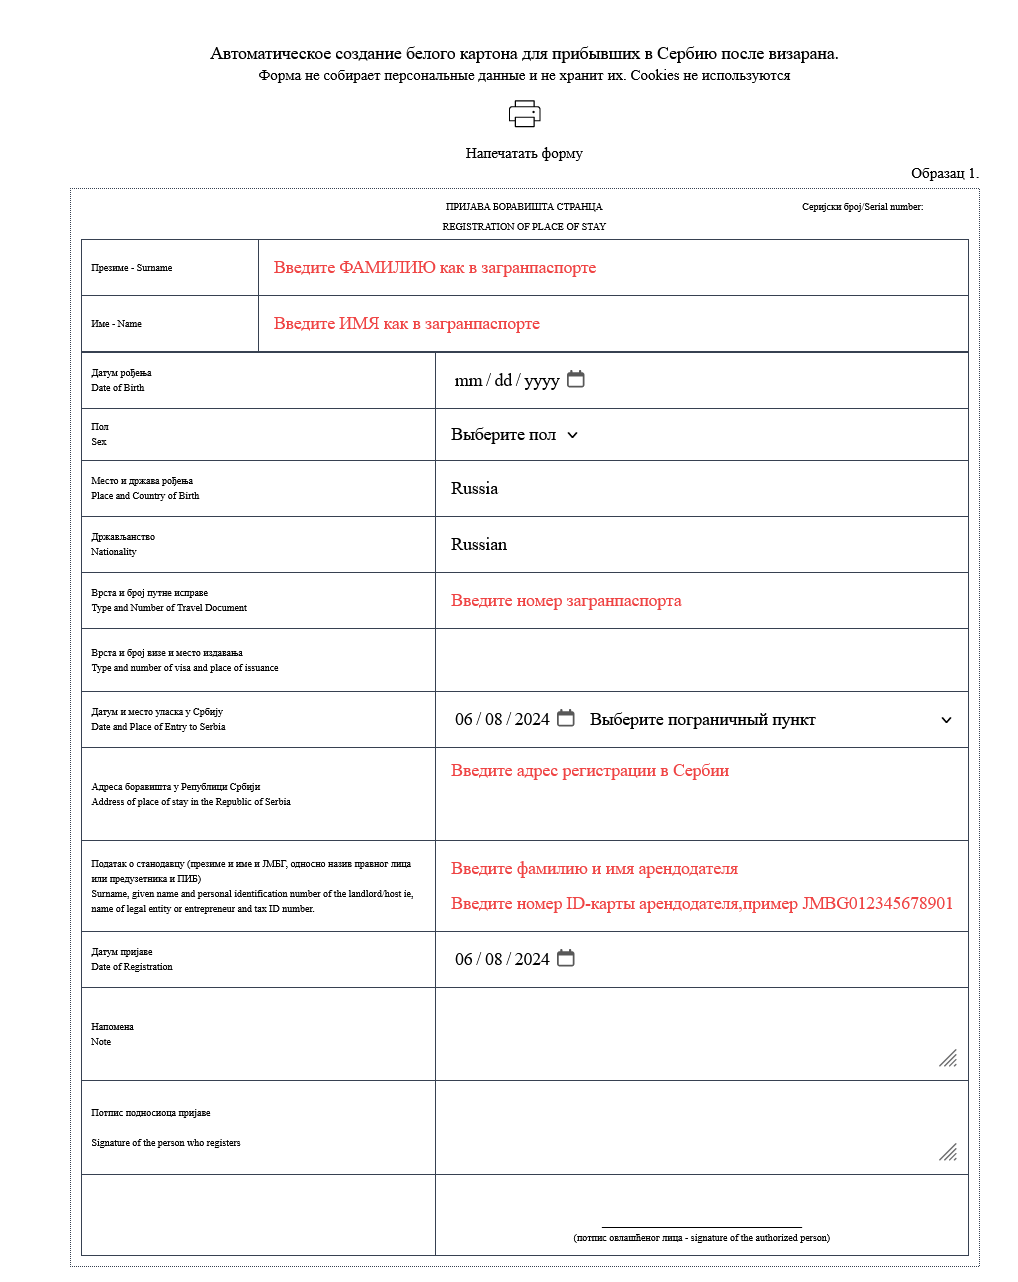
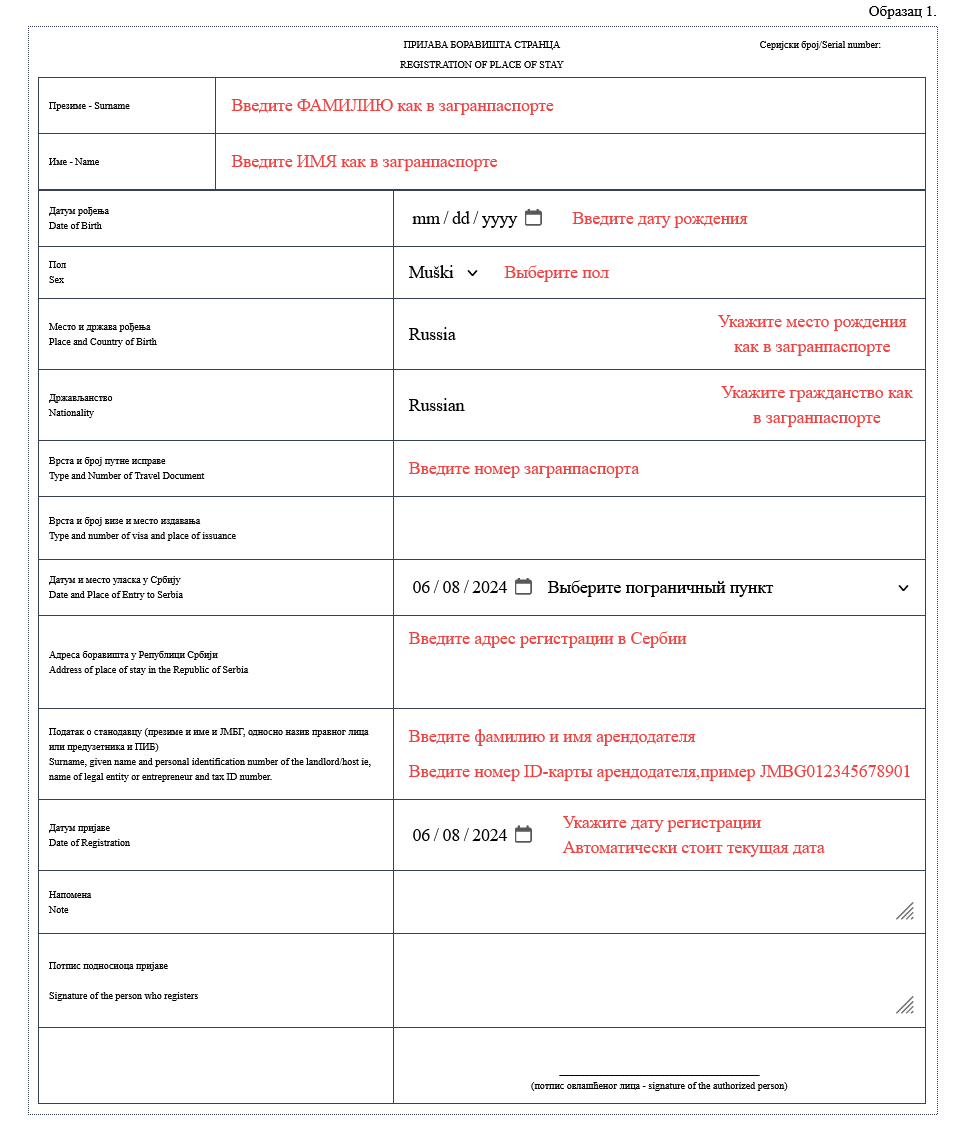
Edit Readme file, add screenshots

diff --git a/README.md b/README.md
@@ -2,18 +2,24 @@
 
 ## Overview
 
-This is a simple web application designed to simplify the process of filling out the "Foreign Citizen Residence Registration" form in Serbia, commonly known as "Beli Karton". Users can fill in the necessary details online, print the form, or save it to send for printing. The application does not collect or store any personal information, ensuring user privacy.
+This is a simple web application designed to simplify the process of filling out the "Foreign Citizen Residence Registration" form in Serbia, commonly known as "Beli Karton," for Russian-speaking people. The language of the app is Russian. Users can fill in the necessary details online, print the form, or save it to send for printing. The application does not collect or store any personal information, ensuring user privacy.
 
 ## Table of Contents
+- [Links](#links)
 - [Features](#features)
 - [Technologies](#technologies)
 - [Screenshots](#screenshots)
 - [Installation](#installation)
+- [Contributing](#contributing)
 
+## Links
+
+Deploy: [https://beli-karton.vercel.app/](https://beli-karton.vercel.app/)
 
 ## Features
 
 - Fill out the registration form online.
+- Include specific letters of the Serbian latin alphabet for easy input. Users can click on a character to automatically copy it to the clipboard.
 - Automatically set today's date for relevant form fields.
 - Provide a list of places of entry in Serbia for easy selection.
 - Print the completed form directly from the application.
@@ -24,12 +30,17 @@ This is a simple web application designed to simplify the process of filling out
 ## Technologies
 
 - React
+- Typescript
 - Tailwind CSS
 
 ## Screenshots
 
-<b>Home Page</b>
+<b>Header</b>
+<img src="./src/assets/images/header.png">
+<details><summary><b>Show all</b></summary>
+<b>Form</b>
 <img src="./src/assets/images/form.png">
+</details>
 
 ## Installation
 
@@ -52,6 +63,7 @@ This is a simple web application designed to simplify the process of filling out
     ```
 
     This will start the application on `http://localhost:5173`.
+
 
 4. **Build app (production):**
 
